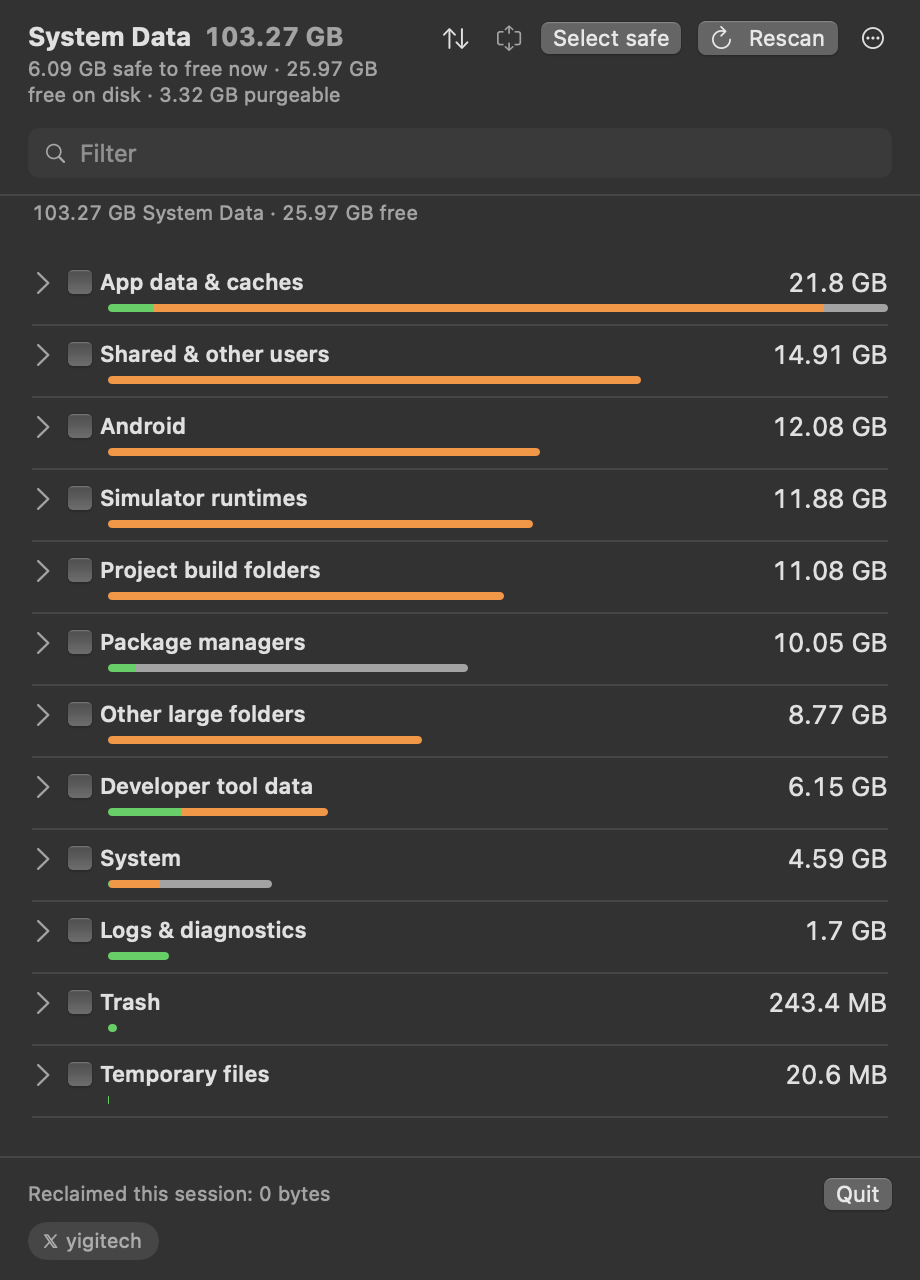
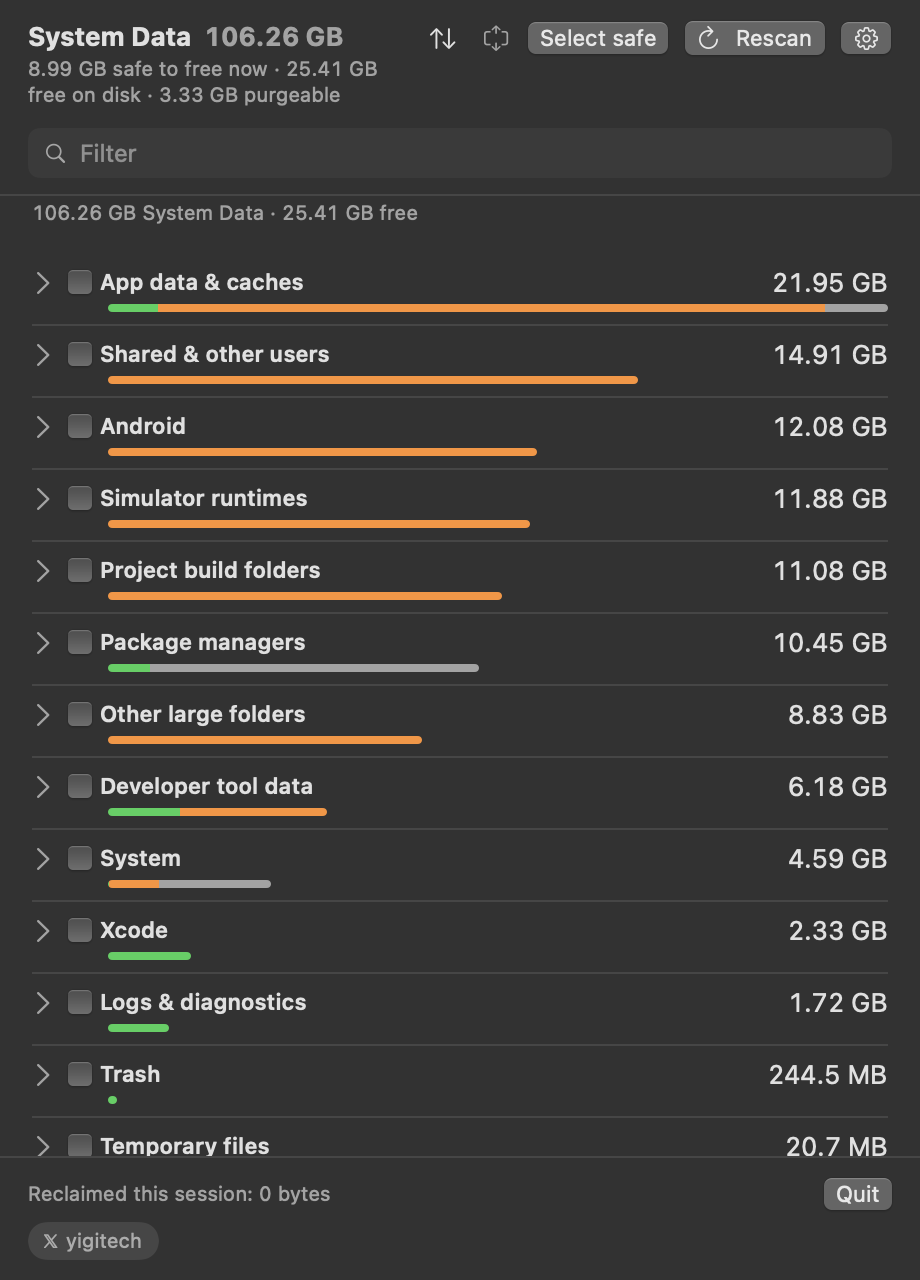
feat(ui): give settings a bordered gear button
As a borderless ellipsis it was the quietest control in the header, and
everything the app can be told to do is behind it. Screenshots follow.

diff --git a/Sources/SysDataMenu/Views/MenuView.swift b/Sources/SysDataMenu/Views/MenuView.swift
@@ -802,10 +802,12 @@ struct MenuView: View {
                 }
             }
         } label: {
-            Label(L("Settings"), systemImage: "ellipsis.circle")
+            Label(L("Settings"), systemImage: "gearshape")
                 .labelStyle(.iconOnly)
         }
-        .menuStyle(.borderlessButton)
+        // Bordered, like Rescan beside it. As a borderless ellipsis it was the
+        // quietest thing in the header, and everything the app can be told to
+        // do is behind it.
         .menuIndicator(.hidden)
         .controlSize(.small)
         .fixedSize()
